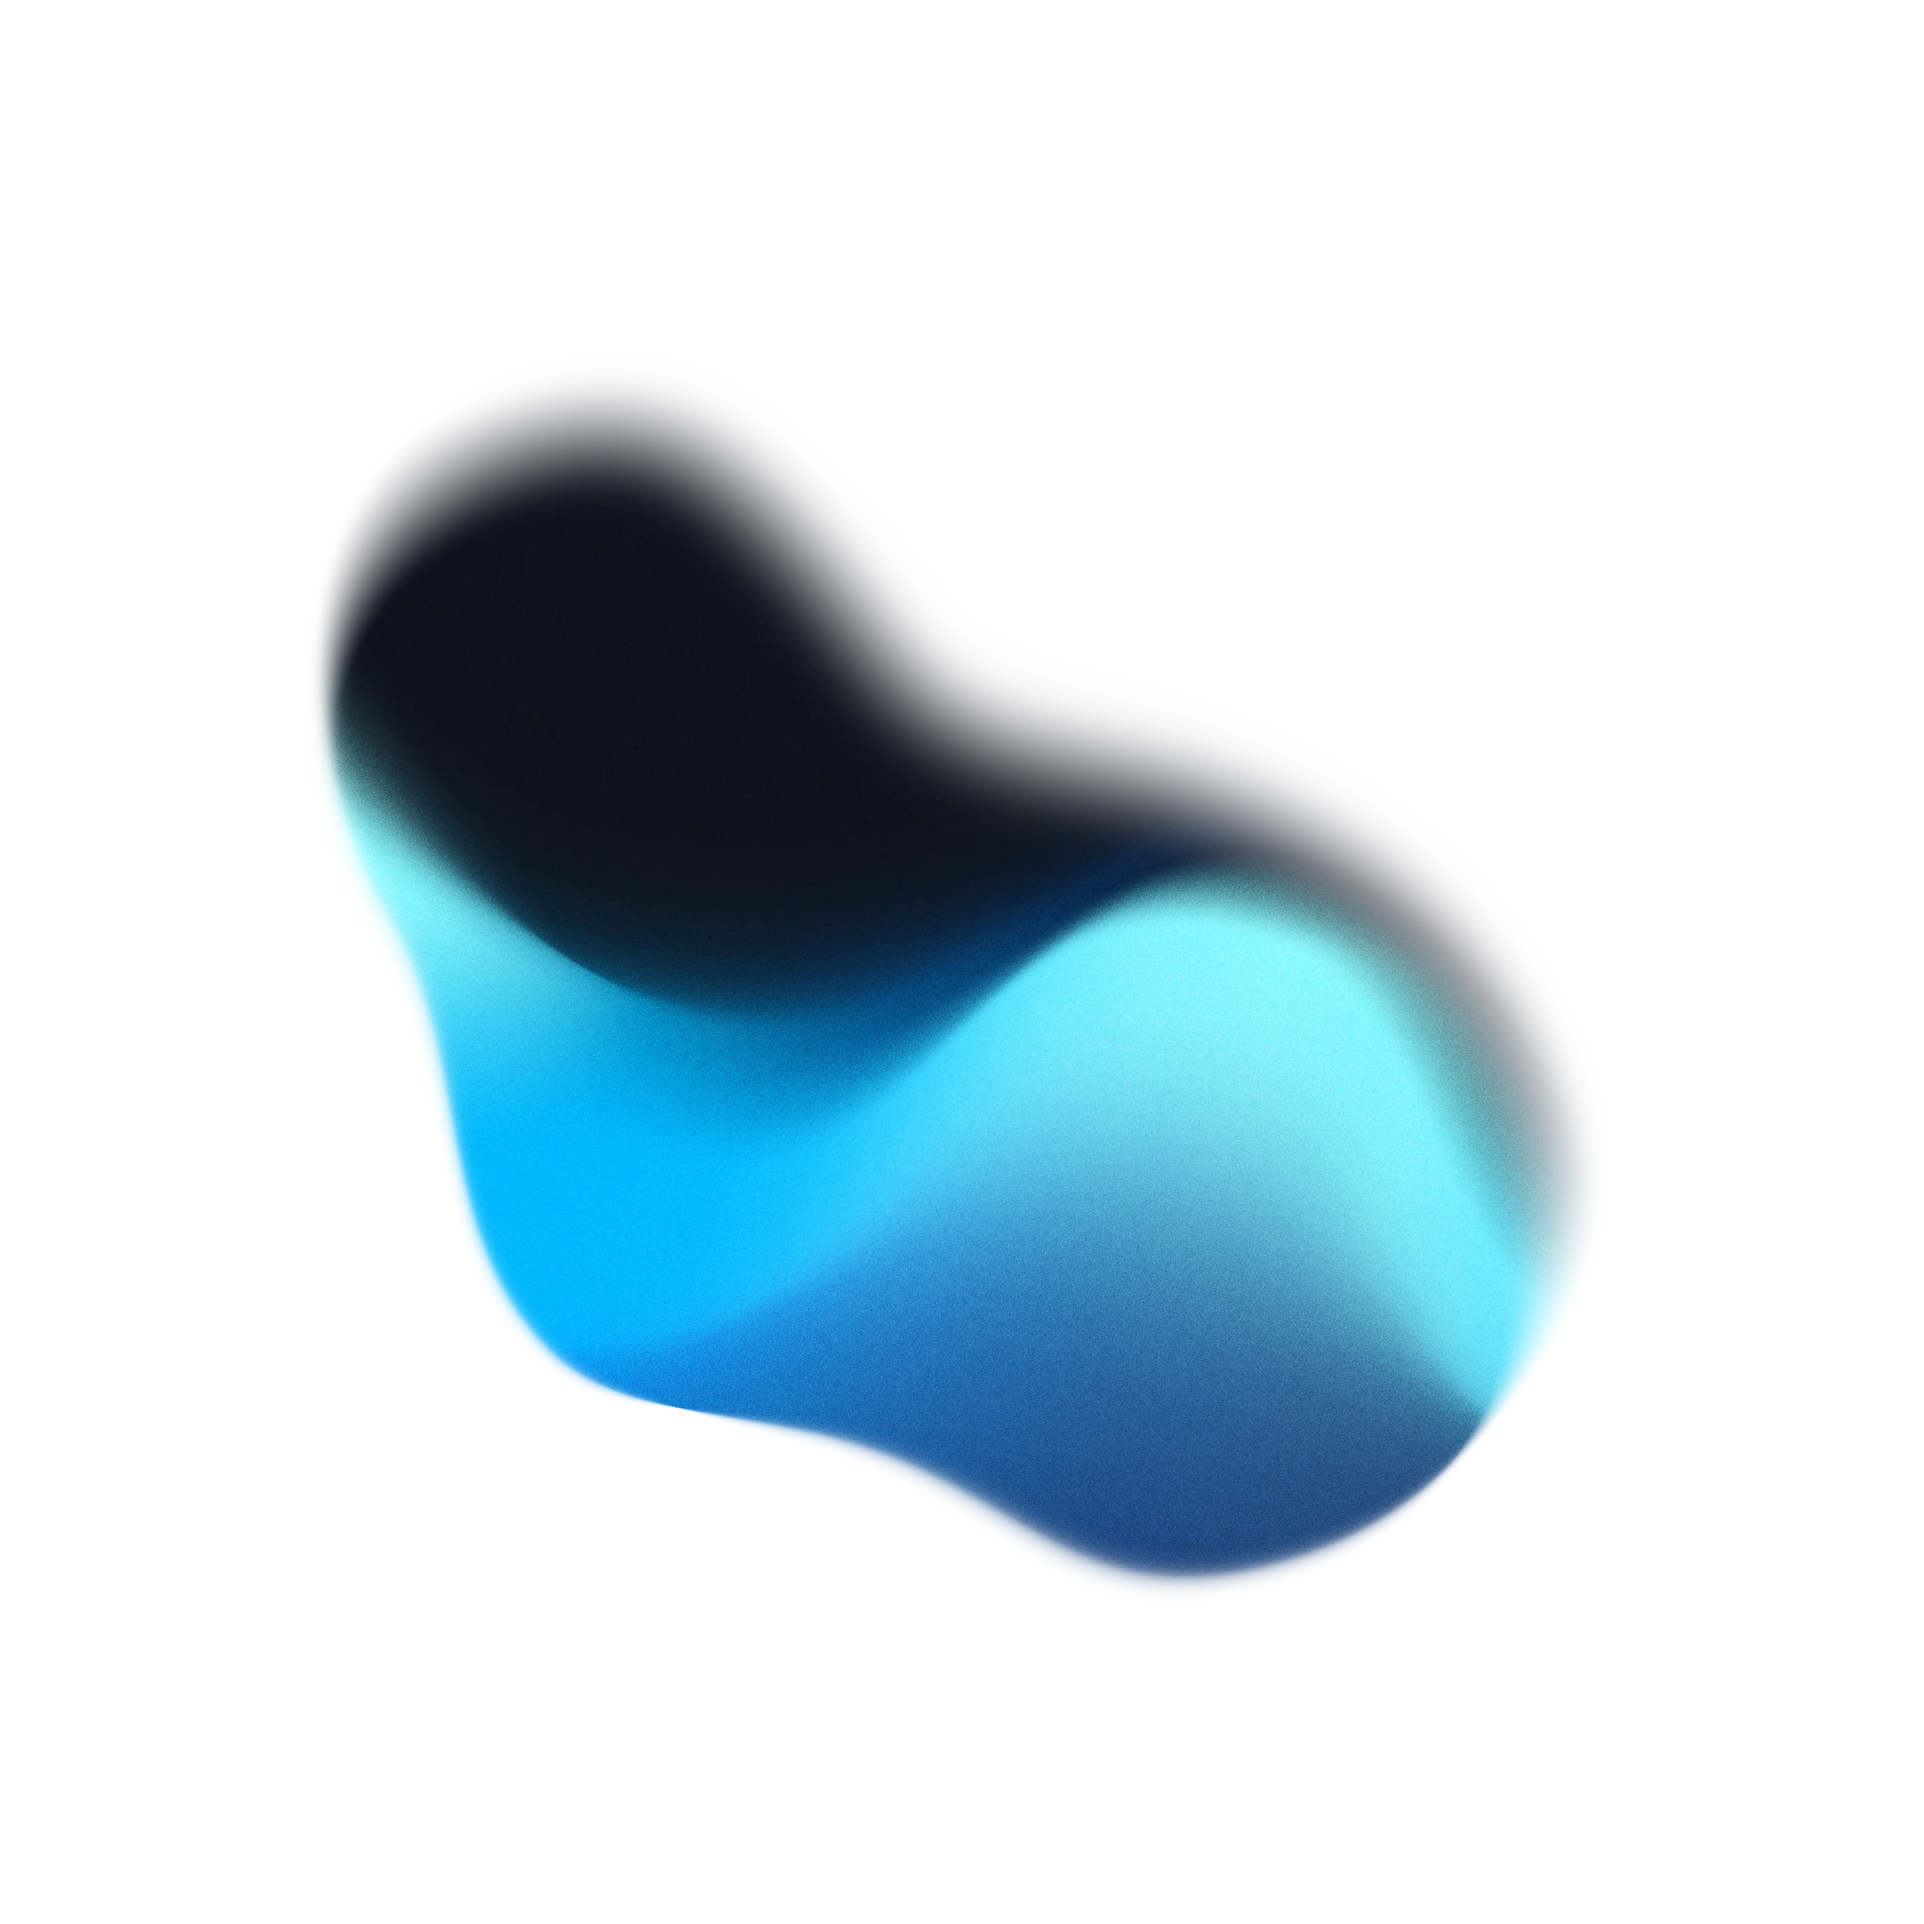
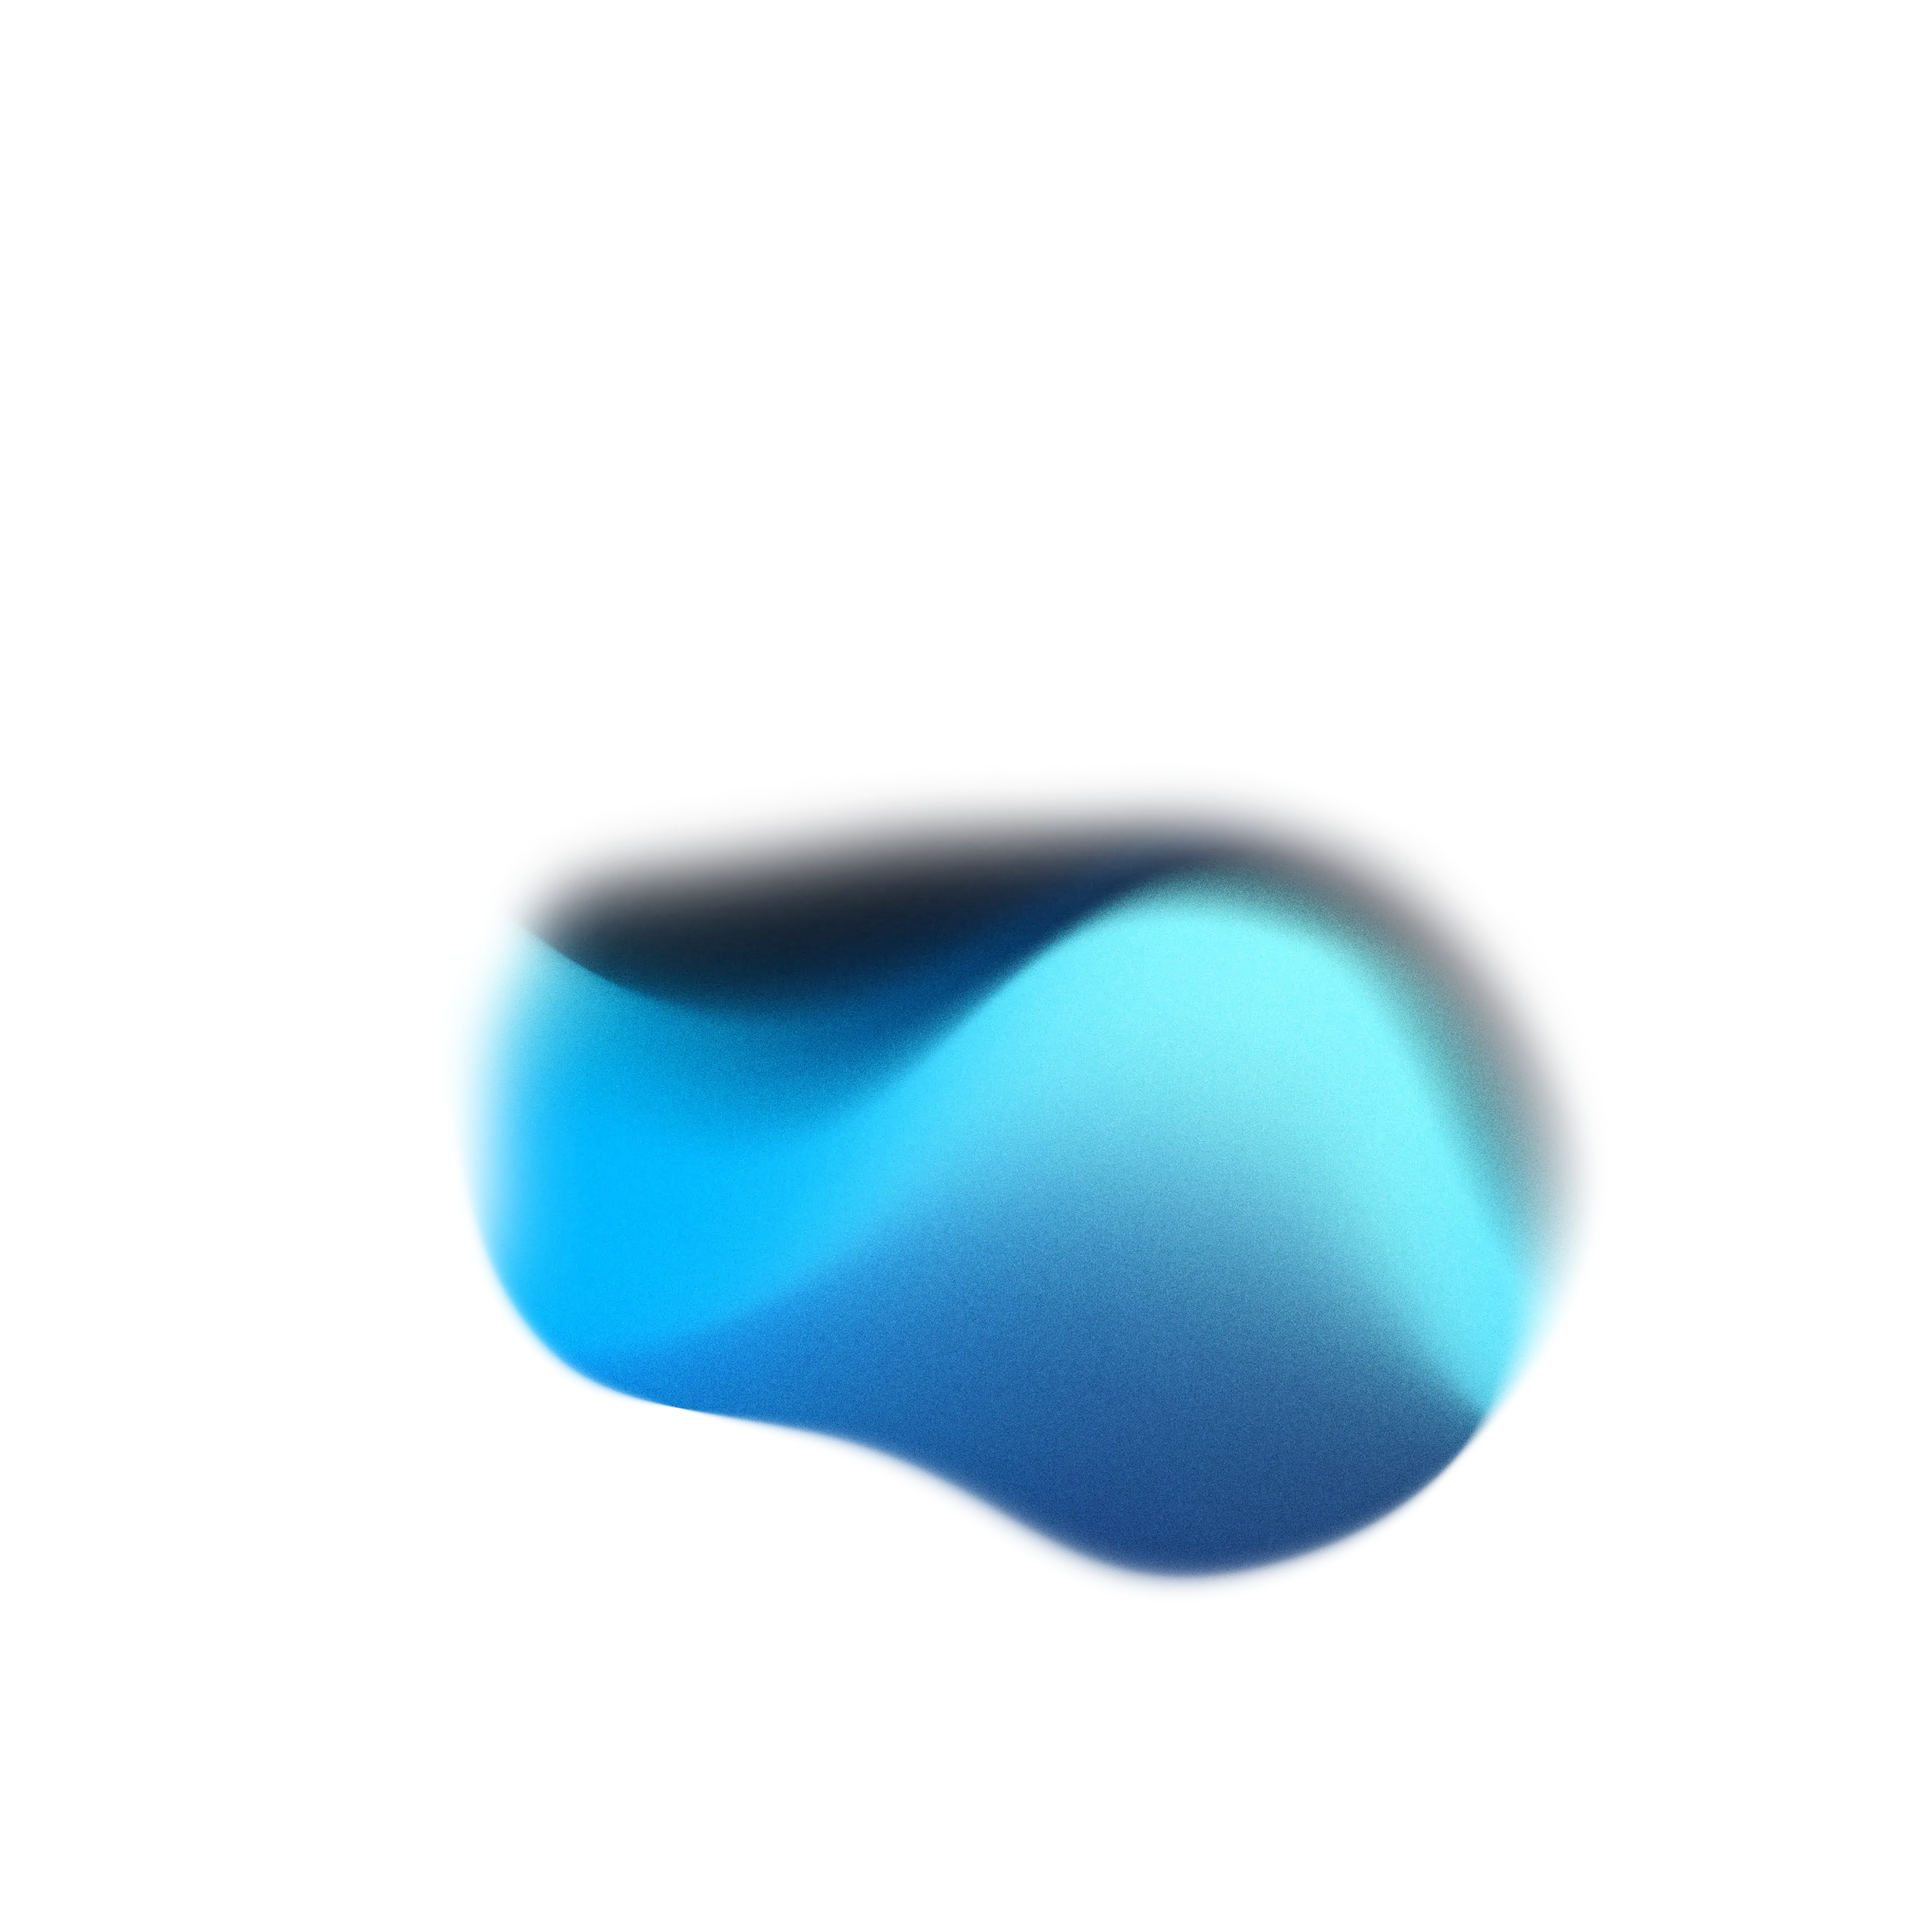
fux

Changed region(s): [[0.155, 0.1861, 0.6822, 0.6822]]

diff --git a/src/Advantages/Advantages.scss b/src/Advantages/Advantages.scss
@@ -1,5 +1,15 @@
 .Advantages {
-    margin-top: 300px;
+    margin-top: 300px !important;
+
+    @media(max-width: 600px) {
+        margin-top: 100px !important;
+    }
+
+    @media(max-width: 1650px) {
+        width: 100%;
+        max-width: 1000px;
+        margin: 0 auto;
+    }
 
     &_decor {
         width: 100%;
@@ -11,19 +21,36 @@
 
         &_abstract {
 
+            @media(max-width: 1650px) {
+                top: -200px;
+            }
+
             img {
                 mix-blend-mode: hard-light;
                 min-width: 160vw;
+
+                @media(max-width: 1650px) {
+                    min-width: 3000px;
+                }
+
             }
         }
 
         &_text {
+            @media(max-width: 1650px) {
+                display: none !important;
+            }
+
             &_small {
                 left: -300px;
                 top: -100px;
                 font-size: 80px;
                 font-weight: 500;
                 white-space: nowrap;
+
+                @media(max-width: 1950px) {
+                    top: -20px;
+                }
             }
 
             &_large {
@@ -58,20 +85,61 @@
         align-items: center;
         justify-content: space-between;
 
+        @media(max-width: 1950px) {
+            width: 650px;
+        }
+
+        @media(max-width: 1650px) {
+            flex-wrap: wrap;
+            width: 100%;
+        }
+
         &_del {
             width: 100%;
+        }
+
+        &_odd {
+            @media(max-width: 1650px) {
+                justify-content: right;
+
+                .Advantages_element_text {
+                    text-align: right;
+                }
+
+                .Advantages_element_title {
+                    text-align: right;
+                }
+            }
         }
 
         &_title {
             font-size: 140px;
             font-weight: 500;
             white-space: nowrap;
+
+            @media(max-width: 1950px) {
+                font-size: 100px;
+            }
+
+            @media(max-width: 1650px) {
+                width: 100%;
+            }
+
+            @media(max-width: 600px) {
+                font-size: 80px;
+            }
+
         }
 
         &_text {
             font-size: 20px;
             font-weight: 500;
             width: 310px;
+
+            @media(max-width: 1650px) {
+                width: 100%;
+                max-width: 600px;
+            }
         }
     }
 }

diff --git a/src/Advantages/Advantages.jsx b/src/Advantages/Advantages.jsx
@@ -29,7 +29,7 @@ export default () => {
                         return <>
                             {(index > 0 && index % 2 === 0) && <div className='Advantages_element_del'></div>}
                             {index === 4 && <div className='Advantages_element'></div>}
-                            <div className='Advantages_element' key={`advantage-${index}`}>
+                            <div className={`Advantages_element ${index % 2 === 0 && 'Advantages_element_odd'}`} key={`advantage-${index}`}>
                                 <div className='Advantages_element_title'>
                                     {el.title}
                                 </div>
@@ -45,12 +45,12 @@ export default () => {
                 <div className='Advantages_decor_abstract free_img'>
                     <img src="/abstract1.webp" alt="" />
                 </div>
-                <div className='Advantages_decor_text_large free_img'>
+                <div className='Advantages_decor_text_large Advantages_decor_text free_img'>
                     <div className='Advantages_decor_text_large_inner'>
                         Outcore
                     </div>
                 </div>
-                <div className='Advantages_decor_text_small free_img'>
+                <div className='Advantages_decor_text_small Advantages_decor_text free_img'>
                     В цифрах
                 </div>
             </div>

diff --git a/src/Note/Note.scss b/src/Note/Note.scss
@@ -24,8 +24,19 @@
             font-size: 30px;
         }
 
+        @media(max-width: 600px) {
+            padding: 0px 30px;
+            font-size: 24px;
+        }
+
         span {
             color: #fff8;
+        }
+    }
+
+    img {
+        @media(max-width: 600px) {
+            display: none;
         }
     }
 

diff --git a/src/Header/Header.scss b/src/Header/Header.scss
@@ -1,7 +1,7 @@
 .Header {
     display: flex;
     justify-content: space-between;
-    margin-top: 50px;
+    margin-top: 30px;
     align-items: start;
 
     @media(max-width: 1500px) {
